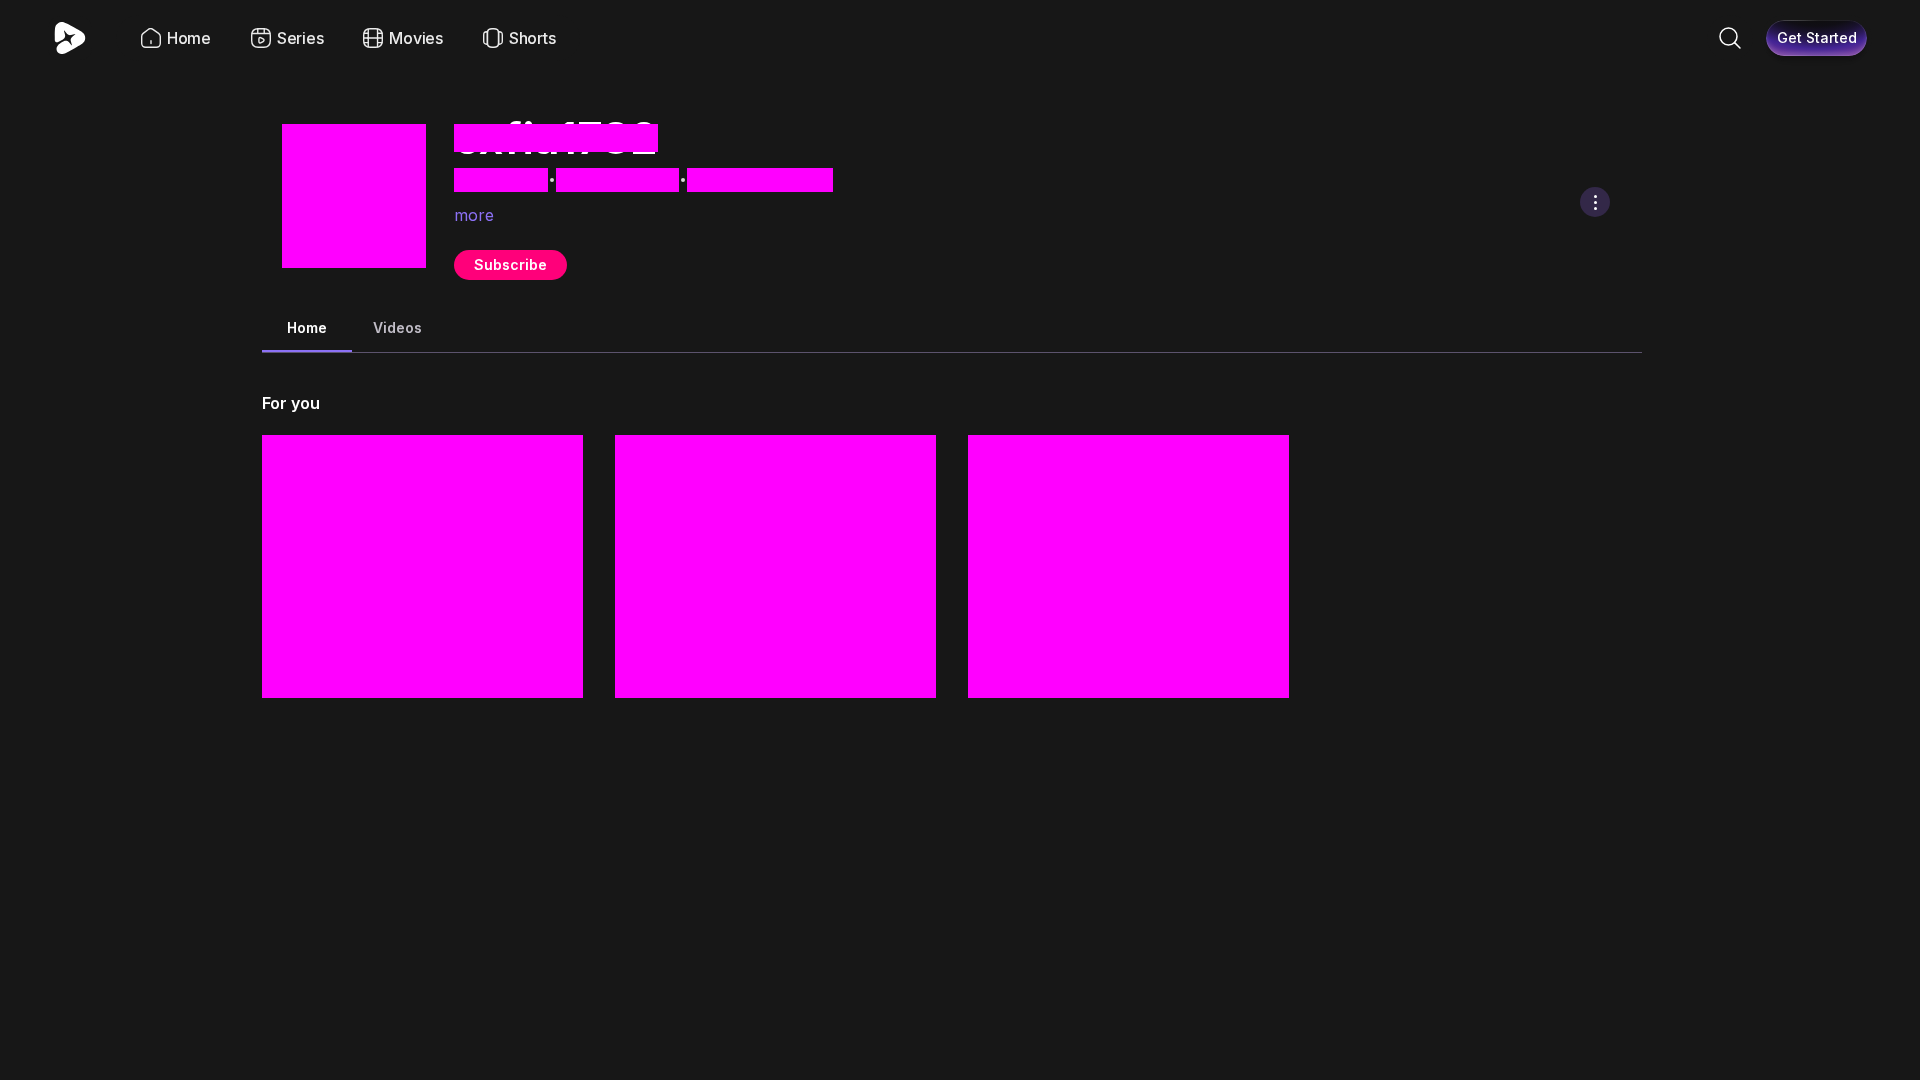
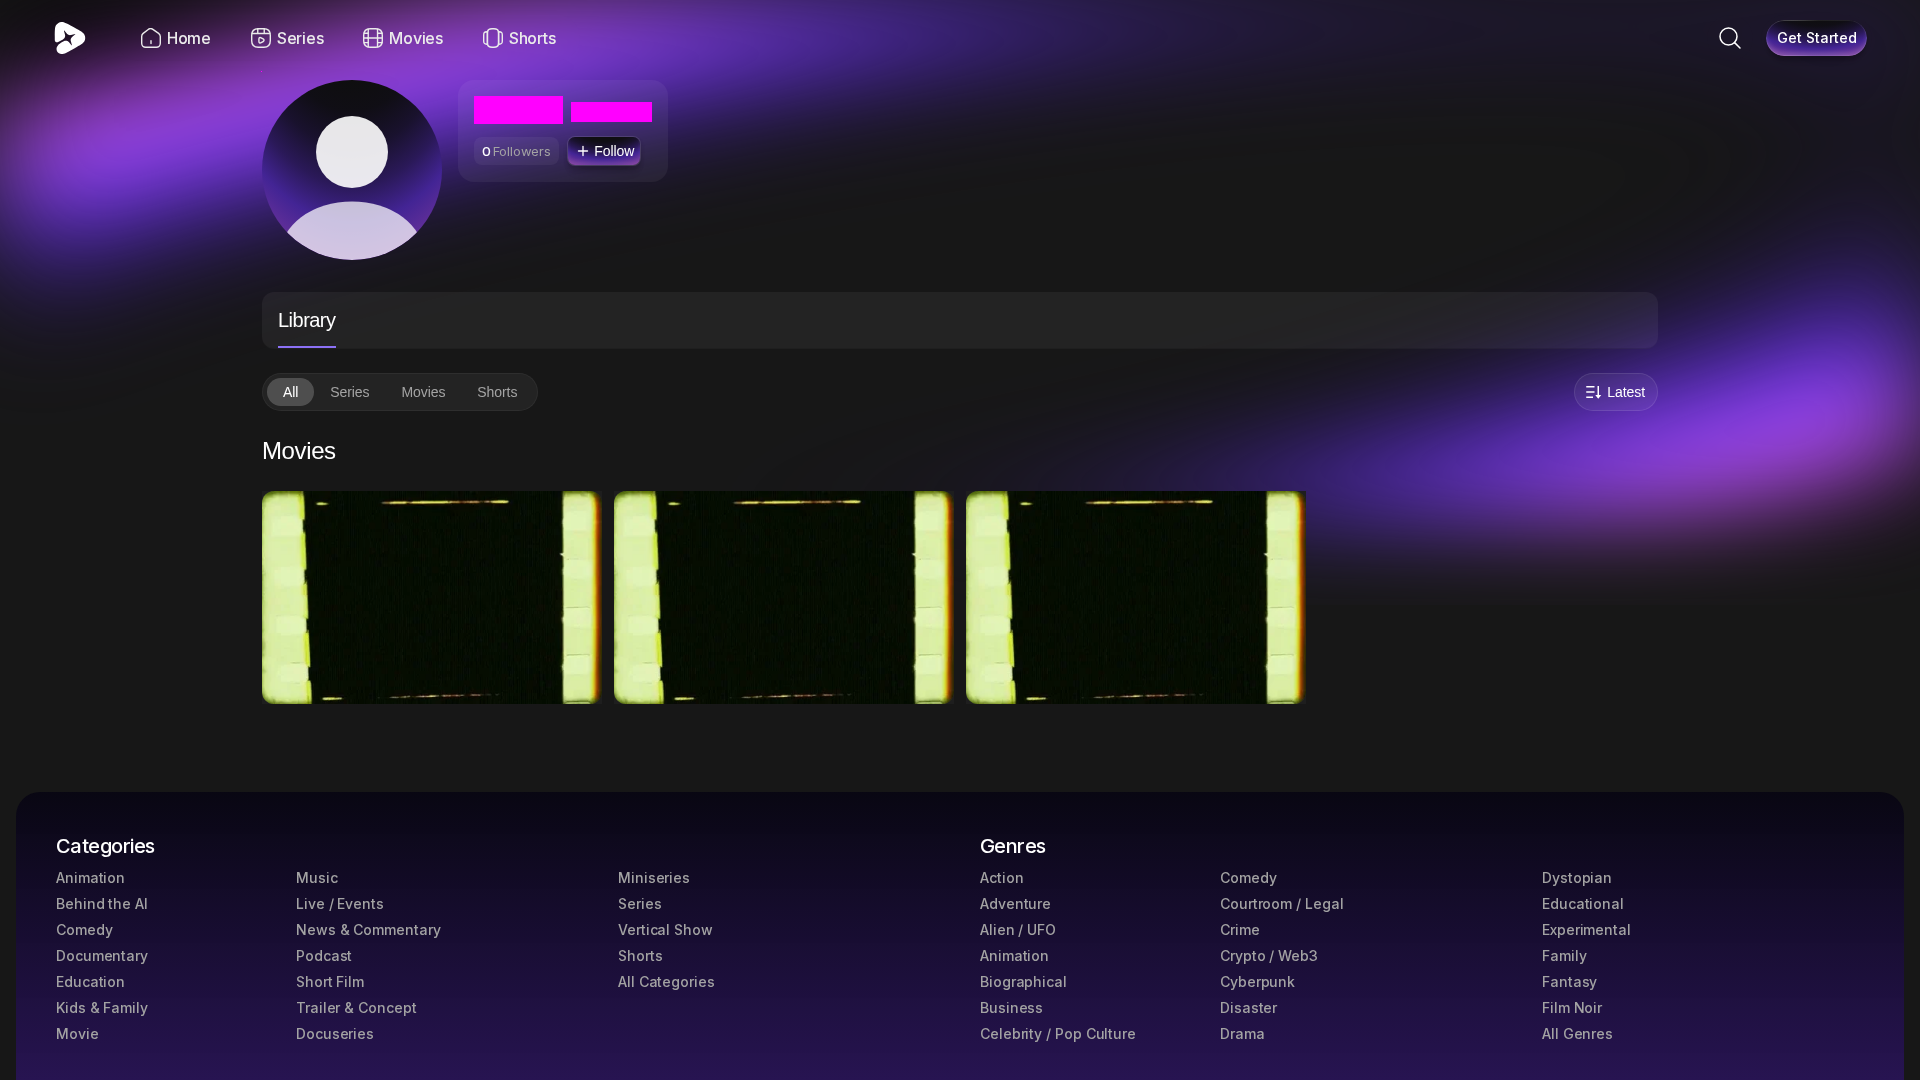
fixes

diff --git a/tests/visual/mobile/videoChannelVisual.spec.ts b/tests/visual/mobile/videoChannelVisual.spec.ts
@@ -4,6 +4,7 @@ import { HeaderPage } from '../../../src/pages/components/HeaderPage';
 import { VideoPlayerPage } from '../../../src/pages/components/VideoPlayerPage';
 import { ChannelMainPage } from '../../../src/pages/channel/ChannelMainPage';
 import { setupVideoViaApi } from '../../../src/utils/studioTestHelpers';
+import { AuthApi } from '../../../src/api/AuthApi';
 import {
     VISUAL_VIDEO_TITLE,
     VISUAL_VIDEO_DESCRIPTION,
@@ -24,15 +25,16 @@ const videoDetailsMasks = (page: Page) => {
     ];
 };
 
-const channelPageMasks = (page: Page) => {
-    const channel = new ChannelMainPage(page);
+// See the desktop spec: after the 2026 redesign the grid (`aitv-video-card`) is
+// cover-only and seeded, so it is screenshot unmasked. Only the random name/@handle
+// and the authed header trigger are masked. `username` targets the hero name/@handle,
+// which carry no data-id attributes.
+const channelPageMasks = (page: Page, username: string) => {
+    const header = new HeaderPage(page);
     return [
-        channel.videos,
-        channel.avatar,
-        channel.videoCount,
-        channel.subscribersCount,
-        channel.channelName,
-        channel.channelHandle,
+        page.getByRole('heading', { name: username }),
+        page.getByText(`@${username}`, { exact: true }),
+        header.userIcon,
     ];
 };
 
@@ -43,6 +45,9 @@ test.describe('Mobile video & channel visual tests', () => {
     let username: string;
     let videoUrl: string;
     let channelUrl: string;
+    // Second, channel-less account for the logged-in non-owner ("user") channel view.
+    let viewerEmail: string;
+    let viewerUsername: string;
 
     test.beforeAll(async () => {
         // 3 video uploads + processing exceed the 90s default hook timeout (and this
@@ -65,6 +70,10 @@ test.describe('Mobile video & channel visual tests', () => {
         username = setup.user.username;
         videoUrl = setup.videoUrl;
         channelUrl = setup.channelUrl;
+
+        const viewer = await new AuthApi(requestContext).createUserFast();
+        viewerEmail = viewer.email;
+        viewerUsername = viewer.username;
 
         await requestContext.dispose();
     });
@@ -111,60 +120,70 @@ test.describe('Mobile video & channel visual tests', () => {
         });
     });
 
-    // ── Channel page ──
-    // TODO(channel-redesign): rework after the upcoming channel redesign — identity
-    // header is random per run and grid tiles carry relative dates, so both stay
-    // masked. The fixed 3-video seed keeps the tile count/height deterministic.
+    // ── Channel page (2026 redesign) ──
+    // Three viewer states — anonymous, logged-in non-owner ("user"), and owner. The
+    // seeded 3-video grid is screenshot unmasked; only the random name/@handle and the
+    // authed header trigger are masked. State is told apart by the hero action button:
+    // visitors see "Follow", the owner sees "Edit".
+
+    // Open the owner's channel, wait for the grid covers to paint, and screenshot the
+    // viewport. `ownerView` selects the hero-button anchor so the shot waits for the
+    // intended UI.
+    async function shootChannel(page: Page, name: string, ownerView: boolean): Promise<void> {
+        const channelPage = new ChannelMainPage(page);
+        const header = new HeaderPage(page);
+
+        await page.goto(channelUrl, { waitUntil: 'domcontentloaded' });
+        await expect(header.mobileHeader, 'Mobile header is not visible').toBeVisible({ timeout: 15_000 });
+        await expect(channelPage.channelNameHeading.first(), 'Channel name is not visible')
+            .toBeVisible({ timeout: 15_000 });
+        const stateAnchor = ownerView ? channelPage.editBtn : channelPage.followBtn;
+        await expect(stateAnchor, `Expected ${ownerView ? 'owner (Edit)' : 'visitor (Follow)'} hero control`)
+            .toBeVisible({ timeout: 15_000 });
+        await expect(channelPage.videoCards.first(), 'Channel video grid did not render')
+            .toBeVisible({ timeout: 15_000 });
+        await page.waitForFunction(() => {
+            const imgs = Array.from(document.querySelectorAll('[data-id="aitv-video-card"] img')).slice(0, 6);
+            return imgs.length > 0 && imgs.every(i => (i as HTMLImageElement).complete && (i as HTMLImageElement).naturalWidth > 0);
+        }, { timeout: 20_000 });
+        await page.evaluate(async () => { await document.fonts.ready; });
+        await page.waitForTimeout(2000);
+        await expect(page).toHaveScreenshot(name, {
+            fullPage: false,
+            mask: channelPageMasks(page, username),
+            maxDiffPixelRatio: 0.02,
+        });
+    }
 
     test('Channel page for anonymous user', {
         annotation: { type: 'TC', description: 'VIS-MOB-003' },
     }, async ({ page }) => {
-        const channelPage = new ChannelMainPage(page);
-        const header = new HeaderPage(page);
-
-        await test.step('Open channel page', async () => {
-            await page.goto(channelUrl);
-            await page.waitForLoadState('domcontentloaded');
-            await expect(header.mobileHeader, 'Mobile header is not visible').toBeVisible({ timeout: 15_000 });
-            await page.evaluate(async () => { await document.fonts.ready; });
-            await expect(channelPage.forYouHeading).toBeVisible({ timeout: 10_000 });
-            await expect(channelPage.channelSubscribeBtn).toBeVisible();
-            await page.waitForTimeout(2000);
-        });
-
-        await test.step('Take screenshot', async () => {
-            await expect(page).toHaveScreenshot('channel-page-anon.png', {
-                fullPage: false,
-                mask: channelPageMasks(page),
-                maxDiffPixelRatio: 0.02,
-            });
+        await test.step('Open channel page and screenshot', async () => {
+            await shootChannel(page, 'channel-page-anon.png', false);
         });
     });
 
-    test('Channel page for logged in user', {
+    test('Channel page for logged-in user (not owner)', {
+        annotation: { type: 'TC', description: 'VIS-MOB-005' },
+    }, async ({ page }) => {
+        await test.step('Login as non-owner', async () => {
+            const authFlow = new AuthFlow(page);
+            await authFlow.loginSuccess(viewerEmail, password, viewerUsername, true);
+        });
+        await test.step('Open channel page and screenshot', async () => {
+            await shootChannel(page, 'channel-page-user.png', false);
+        });
+    });
+
+    test('Channel page for channel owner', {
         annotation: { type: 'TC', description: 'VIS-MOB-004' },
     }, async ({ page }) => {
-        const channelPage = new ChannelMainPage(page);
-        const header = new HeaderPage(page);
-
-        await test.step('Login and open channel page', async () => {
+        await test.step('Login as owner', async () => {
             const authFlow = new AuthFlow(page);
             await authFlow.loginSuccess(userEmail, password, username, true);
-            await page.goto(channelUrl);
-            await page.waitForLoadState('domcontentloaded');
-            await expect(header.mobileHeader, 'Mobile header is not visible').toBeVisible({ timeout: 15_000 });
-            await page.evaluate(async () => { await document.fonts.ready; });
-            await expect(channelPage.forYouHeading).toBeVisible({ timeout: 10_000 });
-            await expect(channelPage.editChannelBtn).toBeVisible();
-            await page.waitForTimeout(2000);
         });
-
-        await test.step('Take screenshot', async () => {
-            await expect(page).toHaveScreenshot('channel-page-logged-in.png', {
-                fullPage: false,
-                mask: channelPageMasks(page),
-                maxDiffPixelRatio: 0.02,
-            });
+        await test.step('Open channel page and screenshot', async () => {
+            await shootChannel(page, 'channel-page-owner.png', true);
         });
     });
 

diff --git a/tests/visual/desktop/videoChannelVisual.spec.ts b/tests/visual/desktop/videoChannelVisual.spec.ts
@@ -4,6 +4,7 @@ import { HeaderPage } from '../../../src/pages/components/HeaderPage';
 import { VideoPlayerPage } from '../../../src/pages/components/VideoPlayerPage';
 import { ChannelMainPage } from '../../../src/pages/channel/ChannelMainPage';
 import { setupVideoViaApi } from '../../../src/utils/studioTestHelpers';
+import { AuthApi } from '../../../src/api/AuthApi';
 import {
     VISUAL_VIDEO_TITLE,
     VISUAL_VIDEO_DESCRIPTION,
@@ -25,17 +26,20 @@ const videoDetailsMasks = (page: Page) => {
     ];
 };
 
-const channelPageMasks = (page: Page) => {
-    const channel = new ChannelMainPage(page);
+// After the 2026 channel redesign the grid tiles (`aitv-video-card`) are cover-only
+// at rest and seeded with the fixed cat.jpg cover, so the grid is screenshot for real
+// — no longer masked. Only genuinely non-deterministic regions stay masked: the
+// identity name/@handle (a random username per run) and the authed header's profile
+// trigger. The hero avatar is the default silhouette (identical across users) and the
+// followers count is a fixed "0", so both are left visible. `username` is the seeded
+// owner's handle, used to target the name heading and @handle text (the hero carries
+// no data-id attributes).
+const channelPageMasks = (page: Page, username: string) => {
     const header = new HeaderPage(page);
     return [
-        channel.videos,
-        channel.avatar,
-        channel.videoCount,
-        channel.subscribersCount,
-        channel.channelName,
-        channel.channelHandle,
-        header.userIcon,
+        page.getByRole('heading', { name: username }),   // channel name (rendered as h1)
+        page.getByText(`@${username}`, { exact: true }),  // @handle
+        header.userIcon,          // authed profile trigger (no-op match when anonymous)
         header.channelTriggerBtn,
     ];
 };
@@ -47,6 +51,10 @@ test.describe('Main domain visual tests', () => {
     let username: string;
     let videoUrl: string;
     let channelUrl: string;
+    // A second account that does NOT own the seeded channel — used for the logged-in
+    // non-owner ("user") channel screenshot.
+    let viewerEmail: string;
+    let viewerUsername: string;
 
     test.beforeAll(async () => {
         // Seeding uploads 3 videos and waits for each to process — well over the 90s
@@ -71,6 +79,11 @@ test.describe('Main domain visual tests', () => {
         username = setup.user.username;
         videoUrl = setup.videoUrl;
         channelUrl = setup.channelUrl;
+
+        // Second, channel-less account for the non-owner channel view.
+        const viewer = await new AuthApi(requestContext).createUserFast();
+        viewerEmail = viewer.email;
+        viewerUsername = viewer.username;
 
         await requestContext.dispose();
     });
@@ -110,52 +123,58 @@ test.describe('Main domain visual tests', () => {
         await shootVideoDetails(page, 'video-page-logged-in.png');
     });
 
-    // ── Channel page ──
+    // ── Channel page (2026 redesign) ──
     //
-    // TODO(channel-redesign): the channel page is scheduled for a redesign — REWORK
-    // this visual test once it lands. Today the identity header (avatar/name/@handle/
-    // subscribers) is random per run and the grid tiles carry per-tile relative dates,
-    // so both stay masked and the shot mostly verifies layout. Seeding a FIXED 3-video
-    // grid (see beforeAll) at least makes the tile COUNT — and thus the masked grid's
-    // height — deterministic. After the redesign, unmask the grid (fixed titles +
-    // cat.jpg covers are deterministic) for a meaningful screenshot.
+    // Three viewer states of the public channel view: anonymous, a logged-in non-owner
+    // ("user"), and the channel owner. The seeded 3-video grid (cat.jpg covers, fixed
+    // titles) is screenshot unmasked; only the random name/@handle and the authed
+    // header trigger are masked (see channelPageMasks). State is distinguished by the
+    // hero action button — visitors see "Follow", the owner sees "Edit"/"Share".
+
+    // Open the owner's channel, wait for the grid covers to finish loading, and
+    // screenshot the viewport. `ownerView` picks the hero-button anchor so the shot is
+    // only taken once the intended (owner vs visitor) UI has rendered.
+    async function shootChannel(page: Page, name: string, ownerView: boolean): Promise<void> {
+        const channelPage = new ChannelMainPage(page);
+        const header = new HeaderPage(page);
+
+        await page.goto(channelUrl, { waitUntil: 'domcontentloaded' });
+        await expect(header.header, 'Header is not visible').toBeVisible({ timeout: 15_000 });
+        await expect(channelPage.channelNameHeading.first(), 'Channel name is not visible')
+            .toBeVisible({ timeout: 15_000 });
+        const stateAnchor = ownerView ? channelPage.editBtn : channelPage.followBtn;
+        await expect(stateAnchor, `Expected ${ownerView ? 'owner (Edit)' : 'visitor (Follow)'} hero control`)
+            .toBeVisible({ timeout: 15_000 });
+        await expect(channelPage.videoCards.first(), 'Channel video grid did not render')
+            .toBeVisible({ timeout: 15_000 });
+        // Grid covers are lazy — wait until the above-the-fold tile images have painted
+        // so the screenshot never catches the MuiSkeleton placeholders.
+        await page.waitForFunction(() => {
+            const imgs = Array.from(document.querySelectorAll('[data-id="aitv-video-card"] img')).slice(0, 6);
+            return imgs.length > 0 && imgs.every(i => (i as HTMLImageElement).complete && (i as HTMLImageElement).naturalWidth > 0);
+        }, { timeout: 20_000 });
+        await page.evaluate(async () => { await document.fonts.ready; });
+        await expect(page).toHaveScreenshot(name, {
+            fullPage: false,
+            mask: channelPageMasks(page, username),
+            maxDiffPixelRatio: 0.02,
+        });
+    }
 
     test('Channel page for anonymous user', async ({ page }) => {
-        const channelPage = new ChannelMainPage(page);
-        const header = new HeaderPage(page);
-
-        await page.goto(channelUrl);
-        await page.waitForLoadState('domcontentloaded');
-        await expect(header.header, 'Header is not visible').toBeVisible({ timeout: 15_000 });
-        await page.evaluate(async () => {
-            await document.fonts.ready;
-        });
-        await expect(channelPage.forYouHeading).toBeVisible({timeout:10_000});
-        await expect(page).toHaveScreenshot('channel-page-anon.png', {
-            fullPage: false,
-            mask: channelPageMasks(page),
-            maxDiffPixelRatio: 0.02
-        });
+        await shootChannel(page, 'channel-page-anon.png', false);
     });
 
-    test('Channel page for logged in user', async ({ page }) => {
-        const channelPage = new ChannelMainPage(page);
-        const header = new HeaderPage(page);
+    test('Channel page for logged-in user (not owner)', async ({ page }) => {
+        const authFlow = new AuthFlow(page);
+        await authFlow.loginSuccess(viewerEmail, password, viewerUsername);
+        await shootChannel(page, 'channel-page-user.png', false);
+    });
+
+    test('Channel page for channel owner', async ({ page }) => {
         const authFlow = new AuthFlow(page);
         await authFlow.loginSuccess(userEmail, password, username);
-
-        await page.goto(channelUrl);
-        await page.waitForLoadState('domcontentloaded');
-        await expect(header.header, 'Header is not visible').toBeVisible({ timeout: 15_000 });
-        await page.evaluate(async () => {
-            await document.fonts.ready;
-        });
-        await expect(channelPage.forYouHeading).toBeVisible({timeout:10_000});
-        await expect(page).toHaveScreenshot('channel-page-logged-in.png', {
-            fullPage: false,
-            mask: channelPageMasks(page),
-            maxDiffPixelRatio: 0.02
-        });
+        await shootChannel(page, 'channel-page-owner.png', true);
     });
 
 })

diff --git a/src/pages/channel/ChannelMainPage.ts b/src/pages/channel/ChannelMainPage.ts
@@ -21,7 +21,18 @@ export class ChannelMainPage {
     readonly channelHandle: Locator;
     readonly forYouHeading: Locator;
     readonly editChannelBtn: Locator;
-   
+
+    // 2026 channel redesign — the public channel view was rebuilt with new markup.
+    // The identity hero carries no data-id attributes, so name/handle are matched by
+    // role/text; the grid tiles are `aitv-video-card` (cover-only at rest). Viewer
+    // state is told apart by the hero action button: visitors/anon see "Follow",
+    // the owner sees "Edit"/"Share".
+    readonly videoCards: Locator;
+    readonly channelNameHeading: Locator;
+    readonly followBtn: Locator;
+    readonly editBtn: Locator;
+    readonly shareBtn: Locator;
+
 
 
 
@@ -50,6 +61,15 @@ export class ChannelMainPage {
         this.channelHandle = page.locator('[data-id="handle"]');
         this.forYouHeading = page.getByRole('heading', { name: 'For you' });
         this.editChannelBtn = page.getByRole('button', { name: 'Edit channel' });
+
+        // 2026 redesign locators. `.first()` guards against the per-tile hover
+        // overlays that also expose Follow/Edit controls — the hero button is first
+        // in DOM order.
+        this.videoCards = page.locator('[data-id="aitv-video-card"]');
+        this.channelNameHeading = page.getByRole('heading', { level: 1 });
+        this.followBtn = page.getByRole('button', { name: 'Follow', exact: true }).first();
+        this.editBtn = page.getByRole('button', { name: 'Edit', exact: true }).first();
+        this.shareBtn = page.getByRole('button', { name: 'Share', exact: true }).first();
 
         this.exclusiveBadge = page.locator('div').filter({ hasText: /^Exclusive Content$/ }).first();
         this.lockedBadge = this.firstVideo.locator('.locked');

diff --git a/README.md b/README.md
@@ -6,7 +6,7 @@ E2E-тесты платформы AITV на [Playwright](https://playwright.dev/
 
 - **Playwright** — раннер и автоматизация браузера
 - **TypeScript** — язык тестов
-- **mail.tm** — одноразовые ящики для флоу с письмами (регистрация, сброс пароля)
+- **Gmail (IMAP)** — чтение писем во флоу с почтой (регистрация, сброс пароля, 2FA); один ящик + plus-addressing, доступ по App Password
 - **mysql2** — прямой доступ к БД для тестов с тегом `@db`
 
 ### Установка
@@ -42,6 +42,11 @@ ENV_FILE=.env.prod npx playwright test --project=functional
 
 После изменения обнови список тестов кнопкой ↺ в Test Explorer.
 
+**Почтовый ящик для тестов.** Флоу с письмами читают один реальный Gmail-ящик по IMAP. В каждом `.env` нужны:
+
+- `EMAIL_ACCOUNT` — адрес ящика (например `[email redacted]`); письма изолируются между тестами через plus-addressing (`aitvtests+qa_<rnd>@gmail.com`).
+- `EMAIL_PASSWORD` — Gmail **App Password** (16 символов). Требует включённой 2FA на аккаунте (обычный пароль Google для IMAP не работает). Генерится в Google Account → Security → App passwords.
+
 ### Структура
 
 Спеки разложены **по доменам продукта** (папки), а сквозные срезы — это **теги, а не папки** (например, всю валидацию ввода гоняешь через `--grep @validation`). Отдельная папка по типу выделяется, только когда это отдельный Playwright-проект/рантайм: `visual/` (Docker), `production/` (прод-среда), `api/` (контракт без браузера).
@@ -63,7 +68,7 @@ src/
   flows/           — оркестраторы пользовательских сценариев
   pages/           — Page Object Model
   api/             — API-хелперы (быстрый сетап в обход UI)
-  utils/           — утилиты (mail.tm, видео-плеер, генерация данных, videoTaxonomy)
+  utils/           — утилиты (чтение почты Gmail по IMAP, видео-плеер, генерация данных, videoTaxonomy)
 test-data/         — фикстуры (видео, фото)
 ```
 

diff --git a/plans.md b/plans.md
@@ -14,3 +14,5 @@
 15. Тест визуальный для аплоада видео [DONE]
 16. Critical тесты - визибилити, Е2Е загрузка видео/серий/шортс [DONE]
 17. Edit video test 
+18. Visual test - Channel Page
+19. Visual test - Shorts Page ( mobile + desktop )